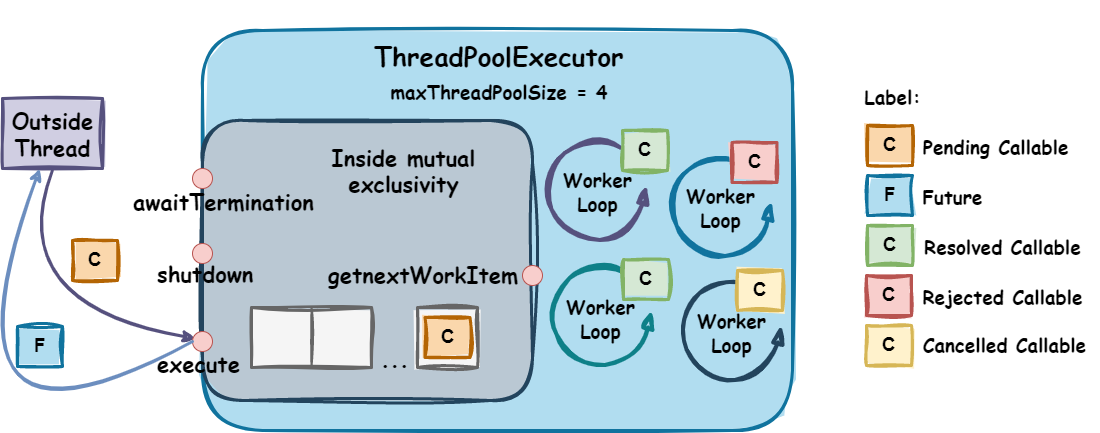
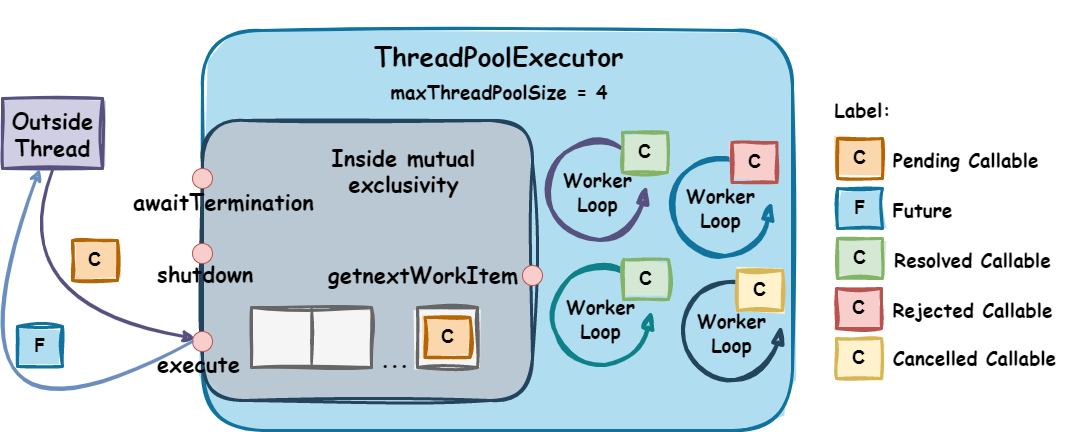
Updated documentation with new drawings. Minor changes.

diff --git a/src/main/kotlin/pt/isel/pc/problemsets/set2/LockFreeCompletionCombinator.kt b/src/main/kotlin/pt/isel/pc/problemsets/set2/LockFreeCompletionCombinator.kt
@@ -17,7 +17,7 @@ class LockFreeCompletionCombinator : CompletionCombinator {
     override fun <T> all(inputStages: List<CompletionStage<T>>): CompletionStage<List<T>> {
         require(inputStages.isNotEmpty()) { "inputStages must not be empty" }
         val futureToReturn = CompletableFuture<List<T>>()
-        // cannot use a non-thread safe container since it will be shared between multiple threads
+        // cannot use a non-thread-safe container since it will be shared between multiple threads
         val successStack: TreiberStack<T> = TreiberStack()
         val wasCompleted = AtomicBoolean(false)
         inputStages.forEach {
@@ -68,7 +68,7 @@ class LockFreeCompletionCombinator : CompletionCombinator {
     override fun <T> any(inputStages: List<CompletionStage<T>>): CompletionStage<T> {
         require(inputStages.isNotEmpty()) { "inputStages must not be empty" }
         val futureToReturn = CompletableFuture<T>()
-        // cannot use a non-thread safe container since it will be shared between multiple threads
+        // cannot use a non-thread-safe container since it will be shared between multiple threads
         val failureStack: TreiberStack<Throwable> = TreiberStack()
         val wasCompleted = AtomicBoolean(false)
         inputStages.forEach {

diff --git a/src/main/kotlin/pt/isel/pc/problemsets/sync/lockfree/TreiberStack.kt b/src/main/kotlin/pt/isel/pc/problemsets/sync/lockfree/TreiberStack.kt
@@ -44,12 +44,11 @@ class TreiberStack<T> : Stack<T> {
         }
     }
 
-    // TODO("or implement Iterable interface?")
     fun toList(): List<T> {
         // fast-path -> if the stack is empty, return an empty list
         head.get() ?: return emptyList()
         // retry-path -> if the stack is not empty, try to return a list with its elements
-        do {
+        while (true) {
             val observedHead = head.get() ?: return emptyList()
             val newList = mutableListOf(observedHead.value)
             var current = observedHead.next
@@ -59,13 +58,10 @@ class TreiberStack<T> : Stack<T> {
             }
             // only return the list if the head did not change
             if (head.compareAndSet(observedHead, observedHead)) {
-                // TODO("nothing garantees that even if the head did not change, the list returned
-                //  is the list when the head was observed? Or when the head update with a new value
-                //  is never the same?")
                 return newList
             }
             // else, retry
-        } while(true)
+        }
     }
 
 }

diff --git a/src/main/kotlin/pt/isel/pc/problemsets/set2/CyclicBarrier.kt b/src/main/kotlin/pt/isel/pc/problemsets/set2/CyclicBarrier.kt
@@ -65,7 +65,7 @@ class CyclicBarrier(private val parties: Int, private val barrierAction: Runnabl
             val indexOfArrival = parties - (barrierRequest.nOfThreadsWaiting + 1)
             // fast-path(2) - the thread that enters is the last thread to arrive at an unbroken barrier
             if (indexOfArrival == 0) {
-                executeBarrierAction()
+                executeBarrierActionAndUpdate()
                 barrierCondition.signalAll()
                 barrierRequest = BarrierRequest()
                 return 0
@@ -155,7 +155,7 @@ class CyclicBarrier(private val parties: Int, private val barrierAction: Runnabl
      * This method should only be called inside a thread-safe environment, since it checks and
      * alters the internal state of the barrier.
      */
-    private fun executeBarrierAction() {
+    private fun executeBarrierActionAndUpdate() {
         val barrierActionRef = barrierAction
         if (barrierActionRef == null) {
             barrierRequest.wasOpened = true

diff --git a/src/main/kotlin/pt/isel/pc/problemsets/set2/ThreadSafeContainer.kt b/src/main/kotlin/pt/isel/pc/problemsets/set2/ThreadSafeContainer.kt
@@ -30,9 +30,9 @@ class ThreadSafeContainer<T>(private val values: Array<AtomicValue<T>>) {
             val observedIndex = index.get()
             // if there are more values to be consumed
             if (observedIndex in values.indices) {
+                val atomicValue = values[observedIndex]
                 while (true) {
                     // retry-path -> A thread tries to decrement a life from a value or retries if not possible
-                    val atomicValue = values[observedIndex]
                     val observedLives = atomicValue.lives.get()
                     val nextLives = if (observedLives > 0) observedLives - 1 else break
                     if (atomicValue.lives.compareAndSet(observedLives, nextLives)) {

diff --git a/src/main/kotlin/pt/isel/pc/problemsets/set2/ThreadSafeCountedHolder.kt b/src/main/kotlin/pt/isel/pc/problemsets/set2/ThreadSafeCountedHolder.kt
@@ -14,7 +14,7 @@ class ThreadSafeCountedHolder<T : Closeable>(value: T) {
     private var value: T? = value
 
     // the instance creation counts as one usage
-    private var useCounter: AtomicInteger = AtomicInteger(1)
+    private val useCounter: AtomicInteger = AtomicInteger(1)
 
     /**
      * Tries to use the value. If the value is used, the internal counter is incremented.

diff --git a/README.md b/README.md
@@ -396,12 +396,18 @@ If provided, a `Runnable` task is executed once the last thread in the set arriv
 
 The barrier is called *cyclic* because it can be re-used again after being broken for the next barrier generation.
 
-Assuming a barrier is not opened, it can be *broken* for the following reasons:
+Assuming a barrier is not opened yet, it can be *broken* for the following reasons:
 - A thread waiting at the barrier is interrupted.
 - A thread waiting at the barrier times out while waiting.
 - The barrier was resetted, and there was at least one thead waiting at the barrier.
 - If the execution of the runnable by the last thread, throws an exception.  
 - When a thread sets a timeout of zero and enters a non-broken barrier but does not complete it.
+
+A new generation of the barrier is created *only* when:
+- the last thread that enters the barrier and:
+    - the runnable task executes successfully.
+    - no runnable task was provided.
+- the barrier is resetted.
 
 #### Public interface
 ```kotlin
@@ -421,33 +427,47 @@ class CyclicBarrier(
 }
 ```
 
+The barrier has the following possible states for each barrier generation.
+
+| ![Cyclic Barrier states](src/main/resources/set2/cyclic-barrier-states.png) |
+|:---------------------------------------------------------------------------:|
+|                 *Cyclic Barrier possible generation states*                 |
+
 #### Style of synchronization
-- For this syncronizer the `Kernel-style` or `Delegation of execution` was used in form of a `Request` per barrier generation,
+For this syncronizer the `Kernel-style` or `Delegation of execution` was used in form of a `Request` per barrier generation,
   because it's easier
   for the last thread to enter the barrier
-  to signal all threads that are waiting for the barrier to be opened and thus completing their request,
-  which then enables the barrier to be reused for the next barrier generation without affecting the prior barrier reference that the other threads have acquired before laying down their request.
-- As mentioned, the `CyclicBarrier` is a reusable barrier, and as such, it is necessary to create another instance of the `Request` for the next barrier generation, and that is done by the last thread to enter the barrier. This thread is also responsible to execute the `Runnable` task if it exists. If the execution of the `Runnable` task throws a `throwable`, the barrier is broken and all threads waiting at the barrier are released with a `BrokenBarrierException`.
-- Because the threads are always signaled to leave the condition by either resetting the barrier or by opening it, the condition where all threads are waiting for the barrier to be broken is also reused in subsequent barrier generations.
-- When a barrier is resetted, it is only broken if there are any threads waiting at the barrier. However, a new barrier generation is always created because a thread with a timeout of *zero* can break the barrier without increasing the counter - number of threads waiting — making it unusable.
-- The described `Request` is defined as follows:
+  to signal all threads that are waiting for the barrier to be opened and thus completing their request.
 
-    ```kotlin
-    private class BarrierRequest(
-        var nOfThreadsWaiting: Int = 0,
-        var wasBroken: Boolean = false,
-        var wasOpened: Boolean = false
-    )
-    ```
+This implementation enables the barrier to be reused for the next barrier generation without affecting the prior barrier reference that the other threads have acquired before laying down their request.
 
-The barrier has the following possible states for each barrier generation:
+As mentioned, the `CyclicBarrier` is a reusable barrier,
+and as such, it is necessary to create another instance of the `Request` for the next barrier generation,
+and that is done by the last thread to enter the barrier.
+This thread is also responsible to execute the runnable task if it exists.
+If the execution of the runnable task throws a `throwable`,
+the barrier is broken and all threads waiting at the barrier are released with a `BrokenBarrierException`.
 
-| ![Barrier States](src/main/resources/set2/cyclic-barrier-states.png) |
-|:--------------------------------------------------------------------:|
-|             *Cyclic Barrier possible generation states*              |
+Because the threads are always signaled to leave the condition by either resetting the barrier or by opening it, the condition where all threads are waiting for the barrier to be broken is also reused in subsequent barrier generations.
+
+The described `Request` is defined as follows:
+
+```kotlin
+private class BarrierRequest(
+    var nOfThreadsWaiting: Int = 0,
+    var wasBroken: Boolean = false,
+    var wasOpened: Boolean = false
+)
+```
+
+The following image shows a possible representation of the previous states in a barrier with 3 parties. 
+
+| ![Cyclic Barrier](src/main/resources/set2/cyclic-barrier.png) |
+|:-------------------------------------------------------------:|
+|                   *Cyclic Barrier example*                    |
 
 #### Normal execution:
-- A thread calls `await`, and passively awaits indefinitely for the other threads to reach the barrier, in order for it to be opened and the `Runnable` task to be executed if it exists. Returns the arrival index of this thread where:
+- A thread calls `await`, and passively awaits indefinitely for the other threads to reach the barrier, in order for it to be opened and the runnable task to be executed if it exists. Returns the arrival index of this thread where:
     - `getParties() - 1` - for first thread to enter the barrier.
     - `0` - for last thread to enter the barrier.
 - A thread calls `await` (with *timeout*), and awaits for a specified timeout for the other threads to reach the barrier, with the same behavior as the previous method.
@@ -461,7 +481,9 @@ The barrier has the following possible states for each barrier generation:
 - **Paths** - The thread can take three major paths when calling this method:
     - **fast-path** 
         - the current barrier has already been broken, and as such, the thread throws a `BrokenBarrierException`.
-        - the barrier has not yet been broken, and this thread is the last one to enter the barrier, and as such, the thread completes the barrier, executes the `Runnable` task if it exists, signals all the other threads waiting for the barrier to be broken and creates a new `Request` for the next barrier generation.
+        - the barrier has not yet been broken, and this thread is the last one to enter the barrier:
+            - if a runnable task was provided and its execution throws a `throwable`, the barrier is broken and all threads waiting at the barrier are released with a `BrokenBarrierException`, and the thread returns the same `throwable`.
+            - if a runnable task was not provided, or its execution completes successfully, the barrier is opened, a new generation is created, and the thread returns `0`.
         - A thread that specifies a timeout of *zero* and does not complete the barrier will not wait for that event and throws a `TimeoutException` immediately.
     - **wait-path**
         - the barrier has not yet been broken, and this thread is not the last one to enter the barrier, and as such, the thread passively awaits for that condition to be met. 
@@ -482,18 +504,11 @@ A thread-safe container is a container that allows multiple threads to consume t
 contains using the `consume` method.
 The container receives an array of [AtomicValue](src/main/kotlin/pt/isel/pc/problemsets/set2/AtomicValue.kt)s,
 that cannot be empty.
-Each value has a number of lives, that represents the number of times that value can be consumed by a thread.
+Each value has a number of lives that represent the number of times that value can be consumed by a thread.
 
 A thread that consumes a value from the container
 decreases the number of lives of that value by one or returns `null` if the container has no values left to consume.
 There's no garantee which value will be consumed by a thread, nor each life.
-
-#### Style of synchronization
-The implementation of this syncronizer does not use explicit or implicit `locks` and relys only on the 
-[Java Memory model](https://docs.oracle.com/javase/specs/jls/se8/html/jls-17.html) guarantees that are 
-implemented by the `JVM`.
-
-An implementation that is not *thread-safe*, and that was the starting point of this implementation, can be seen [here](src/main/kotlin/pt/isel/pc/problemsets/unsafe/UnsafeContainer.kt).
 
 #### Public interface
 ```kotlin
@@ -504,23 +519,36 @@ class ThreadSafeContainer<T>(
 }
 ```
 
-The following image illustrates the state of the container before and after a set of threads consume values from it.
+The following images illustrate the state of the container before and after a set of threads consume values from it.
 
-| ![Thread Safe Container before consumption](src/main/resources/set2/thread-safe-container-before-consumption.png) |
+| ![Thread-Safe Container before consumption](src/main/resources/set2/thread-safe-container-before-consumption.png) |
 |:-----------------------------------------------------------------------------------------------------------------:|
-|  ![Thread Safe Container after consumption](src/main/resources/set2/thread-safe-container-after-consumption.png)  |
-|                                          *Thread Safe Container example*                                          |
+|  ![Thread-Safe Container after consumption](src/main/resources/set2/thread-safe-container-after-consumption.png)  |
+|                                          *Thread-Safe Container example*                                          |
+
+#### Style of synchronization
+The implementation of this syncronizer does not use explicit or implicit `locks` and relys only on the
+[Java Memory model](https://docs.oracle.com/javase/specs/jls/se8/html/jls-17.html) guarantees that are
+implemented by the `JVM`.
+
+An implementation that is not *thread-safe*, and that was the starting point of this implementation, can be seen [here](src/main/kotlin/pt/isel/pc/problemsets/unsafe/UnsafeContainer.kt).
 
 #### Normal execution:
-- A thread calls `consume`, and consumes a value from the container, if there is any left or returns `null` if the container is empty.
+- A thread calls `consume`, and consumes a value from the container, if there is any left or returns `null` if 
+the container is empty.
 
 #### Conditions of execution:
-- `consume`:
-    - **Paths** - The thread can take two major paths when calling this method:
-        - **fast-path**
-            - the container has no values left to consume, and as such, null is returned.
-        - **outer-retry-path**
-            - the container has values left to consume, so the thread tries to decrement a life from the current index value, until possible. This action is associated with an **inner-retry-path**, because the thread will keep trying to decrement the life of the current value until it is not possible, because some other thread(s) decremented all lives of this value and as such, this thread is forced to leave to the **outer-retry-path**. Back to the outer loop, the thread tries to decrement a life of the next value in the array if it exists, or returns null if the array was emptied in the meantime.
+`consume`:
+- **Paths** - The thread can take two major paths when calling this method:
+    - **fast-path**
+        - the container has no values left to consume, and as such, null is returned.
+    - **outer-retry-path**
+        - the container has values left to consume, so the thread tries to decrement a life from the current index 
+          value until possible. This action is associated with an **inner-retry-path**, because the thread will keep trying 
+          to decrement the life of the current value until it is not possible, because some other thread(s) decremented all 
+          lives of this value and as such, this thread is forced to leave to the **outer-retry-path**. Back to the outer loop,
+          the thread tries to decrement a life of the next value in the array if it exists, or returns null if the array was 
+          emptied in the meantime.
 
 ### ThreadSafeCountedHolder
 [Implementation](src/main/kotlin/pt/isel/pc/problemsets/set2/ThreadSafeCountedHolder.kt) |
@@ -532,9 +560,6 @@ that holds a `value` that internally has a `counter` that specifies how many tim
 If the counter reaches zero, the value is automatically *closed*, since it implements the 
 [Closeable](https://docs.oracle.com/javase/8/docs/api/java/io/Closeable.html) interface.
 
-An implementation that is not thread-safe, and that was the starting point of this implementation,
-can be seen [here](src/main/kotlin/pt/isel/pc/problemsets/unsafe/UnsafeUsageCountedHolder.kt).
-
 #### Public interface
 ```kotlin
 class ThreadSafeCountedHolder<T : Closeable>(value: T) {
@@ -544,27 +569,44 @@ class ThreadSafeCountedHolder<T : Closeable>(value: T) {
 }
 ```
 
+The following images illustrate the state of the holder when a thread tries to use the value,
+and after a thread decrements the usage counter of the value and
+the value is closed because the counter reached zero.
+
+|         ![Thread-Safe Counted Holder Try Use](src/main/resources/set2/thread-safe-counted-holder-try-use.png)         |
+|:---------------------------------------------------------------------------------------------------------------------:|
+| ![Thread-Safe Counted Holder End Usage And Close](src/main/resources/set2/thread-safe-counted-holder-after-close.png) |
+|                                         *Thread-Safe Counted Holder example*                                          |
+
+#### Style of synchronization
+The implementation of this syncronizer does not use explicit or implicit `locks` and relys only on the
+[Java Memory model](https://docs.oracle.com/javase/specs/jls/se8/html/jls-17.html) guarantees that are
+implemented by the `JVM`.
+
+An implementation that is not thread-safe, and that was the starting point of this implementation,
+can be seen [here](src/main/kotlin/pt/isel/pc/problemsets/unsafe/UnsafeUsageCountedHolder.kt).
+
 #### Normal execution:
-- A thread calls `tryStartUse`, and tries to start using the value, if it was not previously closed.
-- A thread calls `endUse`, and ends the use of the value, if it was not previously closed.
+- A thread calls `tryStartUse`, and retrieves the value if it is not closed, incrementing the usage counter.
+- A thread calls `endUse`, and decrements the usage counter of the value, closing it if the counter reaches zero.
 
 #### Conditions of execution:
-- `tryStartUse`:
-    - **Paths** - The thread can take two major paths when calling this method:
-        - **fast-path**
-            - the `value` is already null, which means the resource was closed, and as such, null is returned (cannot be reused).
-        - **retry-path**
-            - the `value` is not closed, so this thread tries to increment the usage counter if possible, and if it is, returns the `value`.
-            - while trying to increment the usage counter, the threads sees that the counter is zero, indicates that the resource is closed, null is returned (cannot be reused).
+`tryStartUse`:
+- **Paths** - The thread can take two major paths when calling this method:
+    - **fast-path**
+        - the `value` is already null, which means the resource was closed, and as such, null is returned (cannot be reused).
+    - **retry-path**
+        - the `value` is not closed, so this thread tries to increment the usage counter if possible, and if it is, returns the `value`.
+        - while trying to increment the usage counter, the threads sees that the counter is zero, indicates that the resource is closed, null is returned (cannot be reused).
       
-- `endUse`:
-    - **Paths** - The thread can take two major paths when calling this method:
-        - **fast-path**
-            - the `value` is already null, since it was closed, and as such, `IllegalStateException` is thrown.
-        - **retry-path**
-            - the `value` is not closed, so this thread tries to decrement the usage counter if possible, and if it is, returns immediately.
-            - if the thread that decrements the usage counter is the last one, the thread closes the resource and sets the `value` to null.
-            - while trying to decrement the usage counter, the threads see that the counter is zero, indicating that some other thread closed the resource, this thread throws `IllegalStateException`.
+`endUse`:
+- **Paths** - The thread can take two major paths when calling this method:
+    - **fast-path**
+        - the `value` is already null, since it was closed, and as such, `IllegalStateException` is thrown.
+    - **retry-path**
+        - the `value` is not closed, so this thread tries to decrement the usage counter if possible, and if it is, returns immediately.
+        - while trying to decrement the usage counter, the threads see that the counter is zero, indicating that some other thread closed the resource, this thread throws `IllegalStateException`.
+        - if the thread that decrements the usage counter sees the counter reaching zero, the thread closes the resource and sets the `value` to null.
 
 ### LockFreeCompletionCombinator
 [Implementation](src/main/kotlin/pt/isel/pc/problemsets/set2/LockFreeCompletionCombinator.kt) |
@@ -582,6 +624,36 @@ is available [here](src/main/kotlin/pt/isel/pc/problemsets/sync/lockbased/LockBa
 
 An example of a *lock-based* and a *lock-free* implementation can be consulted in this [section](#lock-based-vs-lock-free-implementations).
 
+#### Public interface
+```kotlin
+class LockFreeCompletionCombinator : CompletionCombinator {
+
+    @Throws(IllegalArgumentException::class)
+    override fun <T> all(inputStages: List<CompletionStage<T>>): CompletionStage<List<T>>
+
+    @Throws(AggregationError::class, IllegalArgumentException::class)
+    override fun <T> any(inputStages: List<CompletionStage<T>>): CompletionStage<T>
+}
+```
+
+The following image illustrates the combinator's respective possible output when a list of `CompletableFutures` is provided.
+
+| ![Lock-free Completion Combinator](src/main/resources/set2/lock-free-completion-combinator.png) |
+|:-----------------------------------------------------------------------------------------------:|
+|                            *Lock-free Completion Combinator example*                            |
+
+#### Style of synchronization
+TODO()
+
+#### AggregationError
+TODO()
+
+#### Normal Execution
+TODO()
+
+#### Conditions of execution
+TODO()
+
 ### Lock-based vs Lock-free implementations
 
 ```kotlin
@@ -598,7 +670,7 @@ object LockBasedImplementation {
 object LockFreeImplementation {
     // or any other variable modifier, class, annotation or final variable that ensures the
     // writing to this reference *happens-before* the read
-    val sharedState: AtomicReference = AtomicReference(0)
+    val sharedState: AtomicReference<Any> = AtomicReference(Any())
     fun updateState() {
         while (true) {
             val observedState = sharedState.get()
